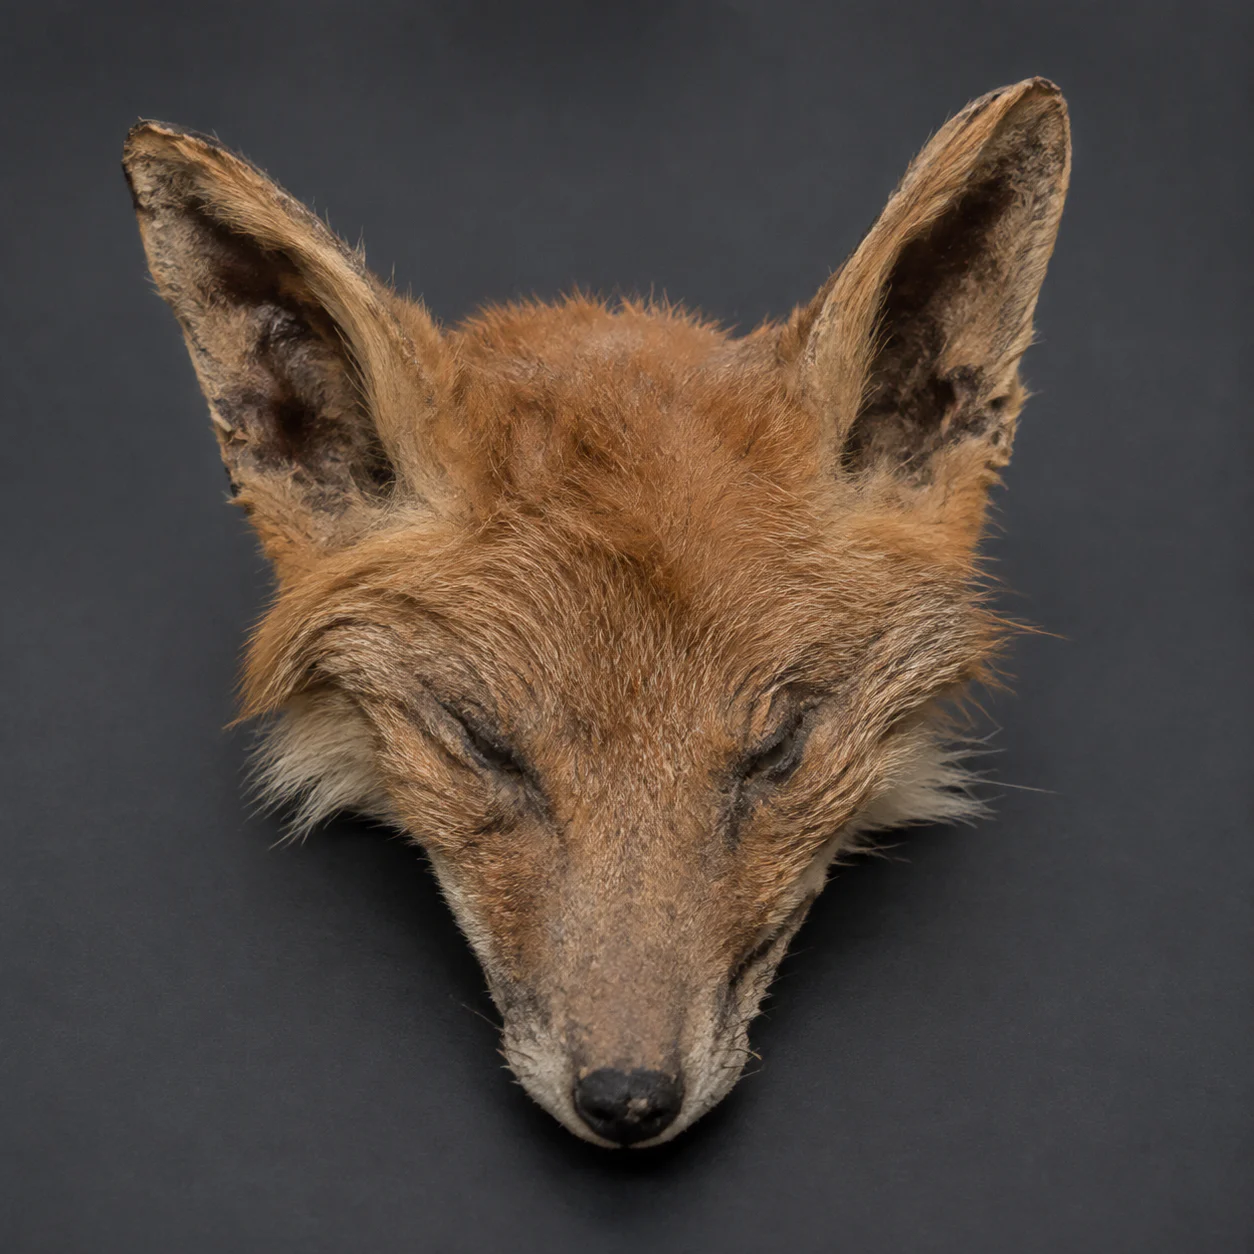
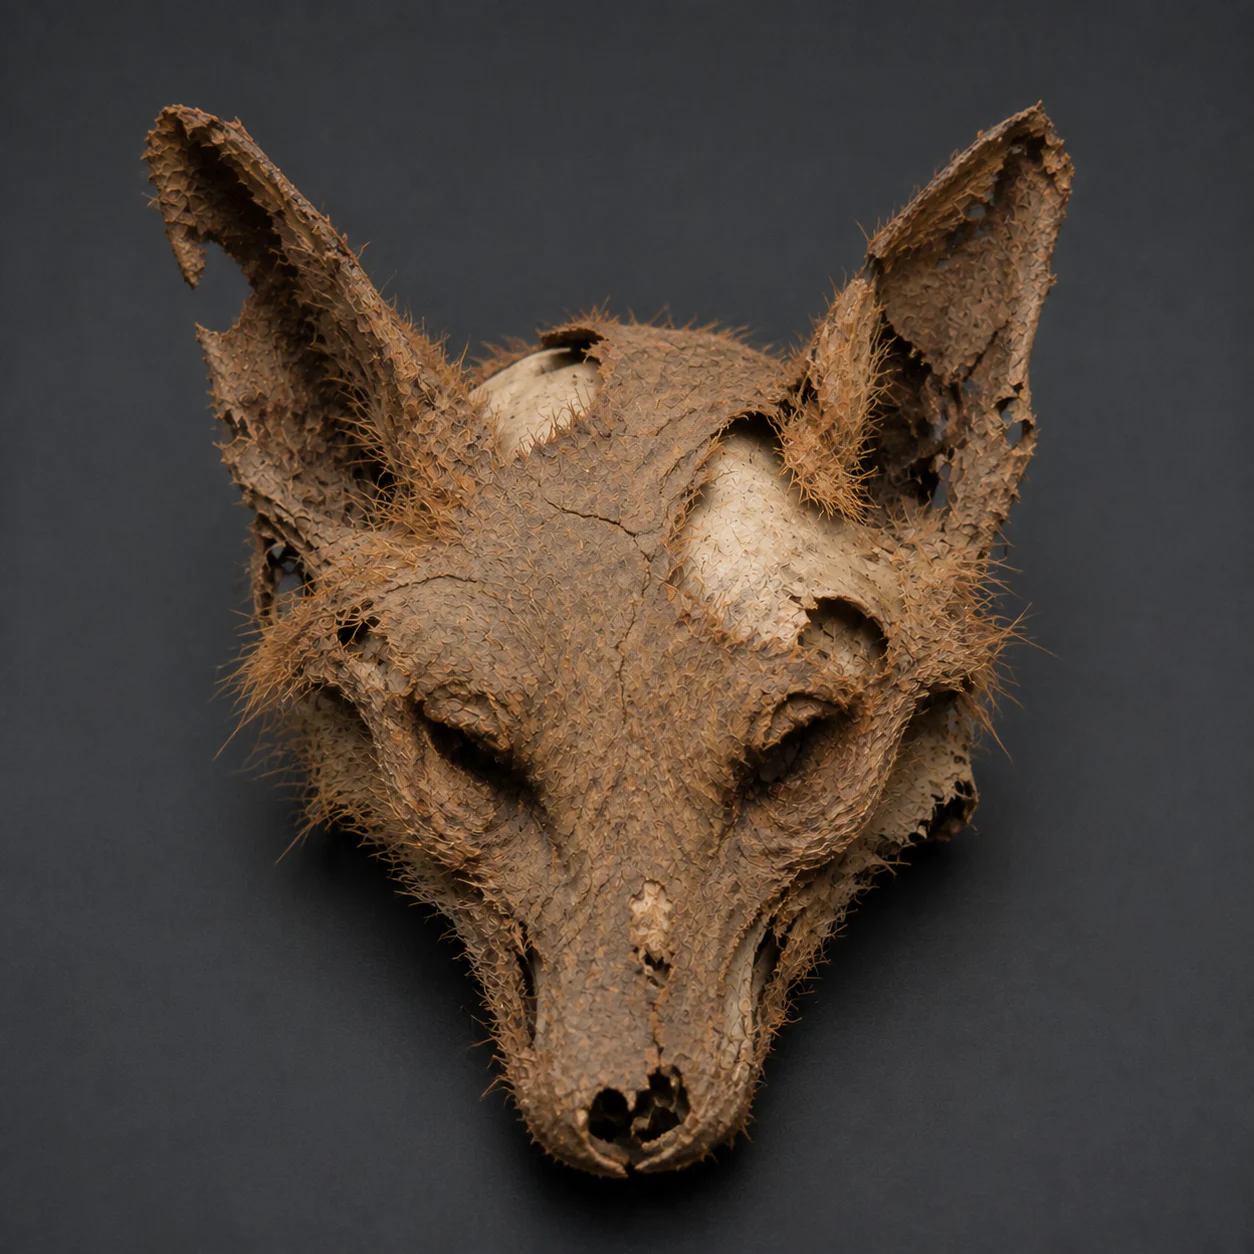
fix: refine preparation condition guidance

Changed region(s): [[0.0933, 0.0622, 0.8708, 1.0]]

diff --git a/tests/e2e/preparation.spec.ts b/tests/e2e/preparation.spec.ts
@@ -18,6 +18,9 @@ test("preparation guide exposes all methods, sources and working workflow links"
   await expect(page.locator(".references li")).toHaveCount(20);
   await expect(page.locator(".prep-figure")).toHaveCount(7);
   await expect(page.locator(".prep-condition-thumbnail")).toHaveCount(6);
+  await expect(
+    page.getByRole("columnheader", { name: "Key watch-out" }),
+  ).toBeVisible();
   await expect(page.locator(".prep-condition-cell").first()).toContainText(
     "Fresh animal body",
   );
@@ -86,6 +89,11 @@ test("condition thumbnails progressively enhance to a focus-restoring quick prev
   const dialog = page.locator(".prep-condition-lightbox[open]");
   await expect(dialog).toBeVisible();
   await expect(dialog).toContainText("AI-generated condition illustration");
+  await page.mouse.click(4, 4);
+  await expect(dialog).not.toBeVisible();
+  await expect(trigger).toBeFocused();
+  await trigger.click();
+  await expect(dialog).toBeVisible();
   await dialog.getByRole("button", { name: "Close image" }).click();
   await expect(dialog).not.toBeVisible();
   await expect(trigger).toBeFocused();

diff --git a/src/features/preparation/PreparationConditionThumbnail.tsx b/src/features/preparation/PreparationConditionThumbnail.tsx
@@ -20,6 +20,10 @@ export function PreparationConditionThumbnail({
     dialog.showModal();
   }
 
+  function closeOnBackdrop(event: MouseEvent<HTMLDialogElement>) {
+    if (event.target === event.currentTarget) dialogRef.current?.close();
+  }
+
   return (
     <>
       <span className="prep-condition-thumbnail">
@@ -42,6 +46,7 @@ export function PreparationConditionThumbnail({
         ref={dialogRef}
         className="prep-condition-lightbox"
         aria-labelledby={titleId}
+        onClick={closeOnBackdrop}
         onClose={() => triggerRef.current?.focus()}
       >
         <div className="prep-condition-lightbox-frame">

diff --git a/docs/project_status.md b/docs/project_status.md
@@ -61,19 +61,20 @@ The guide is ready for owner desktop/mobile review. Source-check status is an ed
 ### Content and media
 
 - Added `Fresh animal body` to the “Before you begin” starting-condition table and revised every row’s “Best place to start” text so it uses general preferred-method wording where several defleshing routes remain suitable.
-- Added brass internal links from the table to separation, skinning, rehydration, defleshing, degreasing, whitening and assembly anchors. “What to expect” copy now distinguishes freezing, loose tissue, grease returning on drying, and optional whitening consistently.
+- Added brass internal links from the table to separation, skinning, rehydration, defleshing, degreasing, whitening and assembly anchors. The renamed “Key watch-out” column now gives one distinct practical warning or diagnostic clue for each starting condition.
 - Generated and curated six coherent square *Vulpes vulpes* condition thumbnails for fresh body, fresh/frozen head, partly decomposed head, dry/mummified head, greasy bare skull, and clean grease-free skull. They are explicitly labelled AI-generated visual cues rather than collection evidence, processed through the existing metadata-stripping preparation-media pipeline, and retained alongside the eight existing guide assets.
 
 ### Interaction and implementation
 
 - Extended the restricted guide dialect with only validated `[label](#stable-id)` links and `![alt](asset:asset-id)` preparation-media tokens. Unknown anchors, unsupported syntax, undeclared media, and unused media still fail the content contract.
-- Added a progressively enhanced native condition-image quick preview. Without JavaScript, each thumbnail remains an ordinary image link; with JavaScript, it opens an accessible native dialog and restores focus on close. The table remains semantic and usable on narrow screens.
+- Added a progressively enhanced native condition-image quick preview. Without JavaScript, each thumbnail remains an ordinary image link; with JavaScript, it opens an accessible native dialog, closes from its outside backdrop, and restores focus on close. The table remains semantic and usable on narrow screens.
 - Clarified degreasing timing as specific to the documented clear dish-detergent bath (roughly 1:10–1:20 soap-to-water), while noting that formulation, concentration, temperature, ammonia and acetone change the timing and safety profile.
 
 ### Verification and boundary
 
 - Reprocessed and validated fourteen preparation WebPs with sRGB conversion, full square/aspect preservation, no EXIF/IPTC/XMP metadata, 1000–1600 px longest-edge bounds and the existing per-file size contract.
 - Added parser/media-parity and focused browser assertions for linked start points, condition thumbnails, quick-preview fallback, and detergent-specific timing. The complete guide remains static-first and no-JavaScript useful.
+- Final validation after the copy and illustration refinement passed formatting, lint, media/content validation, strict TypeScript, **78/78 unit/component tests**, **six expected invalid-fixture failures**, the production build (**77/77 routes**), and the focused preparation browser suite (**6/6**). The new outside-backdrop dismissal and focus restoration are covered by the browser test.
 - The refinement remains local on `agent/skull-prep-page`; no push, pull request, merge, deployment or later phase was started.
 
 ## 1.1 Owner-authorized Home redesign milestone

diff --git a/docs/skull_preparation_guide.md b/docs/skull_preparation_guide.md
@@ -10,7 +10,7 @@ Status: owner-feedback v1 overhaul and owner-directed condition-table refinement
 - A small sticky navigation strip opens a left-hand native modal contents drawer. Phase highlighting follows reading position; Escape/backdrop/Close return focus, while section navigation focuses the destination. A native contents disclosure serves visitors without JavaScript.
 - Shared separation/skinning guidance stays visible. Method-specific tissue preparation and the five defleshing methods use native disclosures, as do the three degreaser procedures; hash and contents links open their target disclosure when JavaScript is available, while native summaries remain operable without it. Six semantic tables stack into labelled rows on phones. Practical safety, method choice, finish checks and first-person troubleshooting remain easy to scan.
 - Existing dark neutral/brass tokens, readable line lengths, small workflow photographs and uncropped larger figures support reference reading. H1 is brass/bold, H2 is brass/regular and H3 is brass/italic as directed by the owner. No decorative animation or extra library is introduced.
-- Inline citation numbers open one small native popover containing that source and its external link. The complete numbered reference list remains at the end for scanning and no-JavaScript fallback. The starting-condition table also supports validated internal guide links and six square AI-generated red-fox condition thumbnails. Each thumbnail is a normal image link without JavaScript and is progressively enhanced to a native quick-preview dialog when JavaScript is available.
+- Inline citation numbers open one small native popover containing that source and its external link. The complete numbered reference list remains at the end for scanning and no-JavaScript fallback. The starting-condition table also supports validated internal guide links and six square AI-generated red-fox condition thumbnails. Each thumbnail is a normal image link without JavaScript and is progressively enhanced to a native quick-preview dialog that closes from its outside backdrop and restores focus when JavaScript is available.
 
 ## Canonical sources and implementation
 
